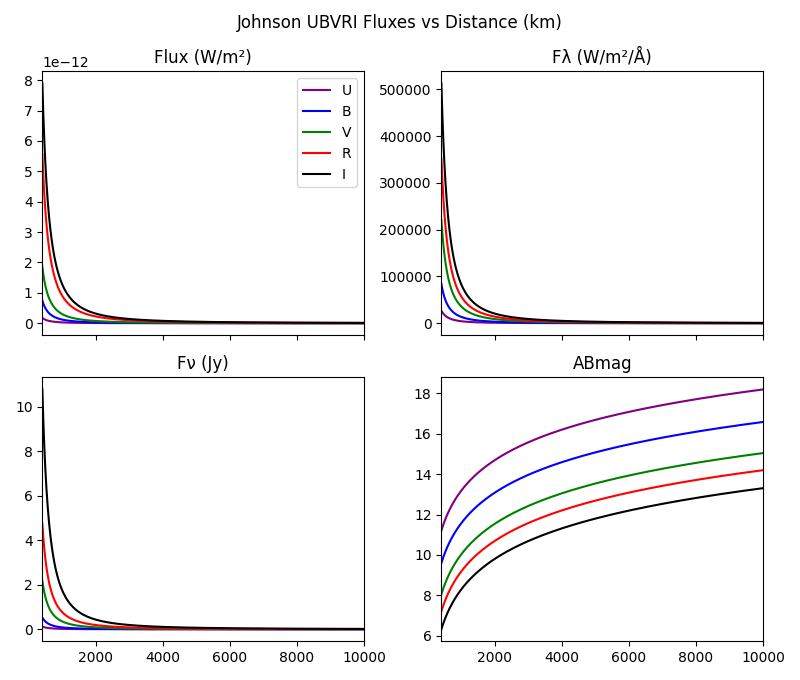
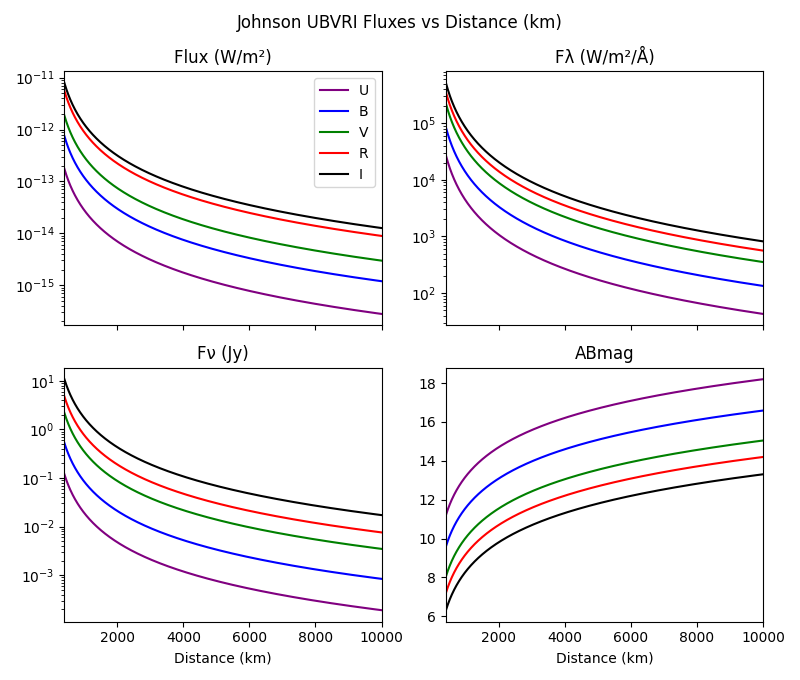
add labels, log scale

diff --git a/mag_graphs.py b/mag_graphs.py
@@ -70,6 +70,11 @@ for band in Johnson:
 	ax[1,1].set_title("ABmag")
 ax[0,0].legend()
 ax[0,0].set_xlim(min(distance)*1e-3,max(distance)*1e-3)
+ax[1,0].set_xlabel("Distance (km)")
+ax[1,1].set_xlabel("Distance (km)")
+ax[0,0].set_yscale("log")
+ax[0,1].set_yscale("log")
+ax[1,0].set_yscale("log")
 fig.set_size_inches(8, 6.8)
 fig.tight_layout()
 #fig.savefig("Filters_Johnson.png", dpi=100)
@@ -101,6 +106,11 @@ for band in SDSS:
 	bx[1,1].set_title("ABmag")
 bx[0,0].legend()
 bx[0,0].set_xlim(min(distance)*1e-3,max(distance)*1e-3)
+bx[1,0].set_xlabel("Distance (km)")
+bx[1,1].set_xlabel("Distance (km)")
+bx[0,0].set_yscale("log")
+bx[0,1].set_yscale("log")
+bx[1,0].set_yscale("log")
 fig.set_size_inches(8, 6.8)
 fig.tight_layout()
 #fig.savefig("Filters_Sloan.png", dpi=100)
@@ -132,6 +142,11 @@ for band in twoMASS:
 	cx[1,1].set_title("ABmag")
 cx[0,0].legend()
 cx[0,0].set_xlim(min(distance)*1e-3,max(distance)*1e-3)
+cx[1,0].set_xlabel("Distance (km)")
+cx[1,1].set_xlabel("Distance (km)")
+cx[0,0].set_yscale("log")
+cx[0,1].set_yscale("log")
+cx[1,0].set_yscale("log")
 fig.set_size_inches(8, 6.8)
 fig.tight_layout()
 #fig.savefig("Filters_2MASS.png", dpi=100)
